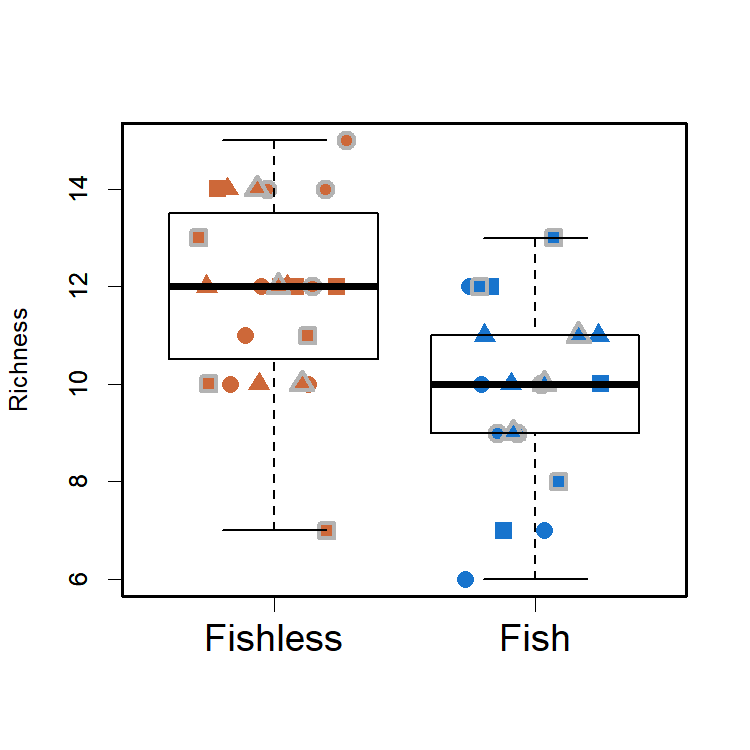
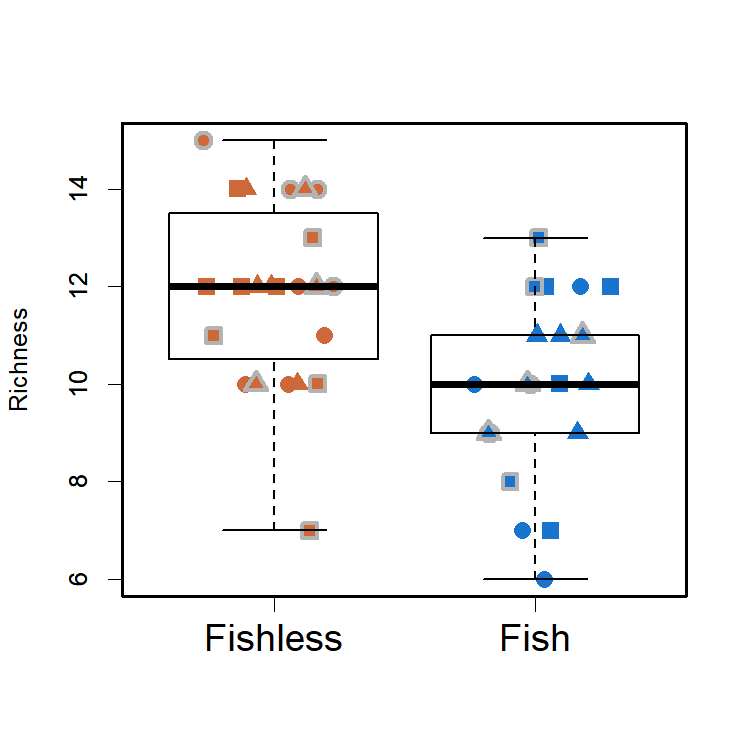
changing graph

diff --git a/Alpha Diversity Analyses/Alpha-Diversity-Analyses.md b/Alpha Diversity Analyses/Alpha-Diversity-Analyses.md
@@ -249,19 +249,15 @@ treatments in the third survey.
 Lets plot it:
 
 ``` r
-boxplot(com_SS2_SS3_predators_richness~fish_SS2_SS3*isolation_SS2_SS3*SS_SS2_SS3, outline = F, ylab = "Richness", xlab = "", lwd = 1.5, ylim = c(0,8), col = "transparent", main = "Predators", at = c(1,2,4,5,7,8,10,11,13,14,16,17), xaxt="n")
-
-All2 <- factor(All, levels = c("2 030 absent","2 030 present","2 120 absent","2 120 present","2 480 absent","2 480 present",
-                               "3 030 absent","3 030 present","3 120 absent","3 120 present","3 480 absent","3 480 present"))
-
-mylevels <- levels(All2)
-levelProportions <- summary(All2)/length(com_SS2_SS3_predators_richness)
-col <- c(rep(c("sienna3","dodgerblue3"),3), rep("grey70",6))
-bg <- c(rep(c("sienna3","dodgerblue3"),3),rep(c("sienna3","dodgerblue3"),3))
-pch <- c(15,15,16,16,17,17,22,22,21,21,24,24)
+boxplot(com_SS2_SS3_predators_richness~isolation_SS2_SS3*fish_SS2_SS3, outline = F, ylab = "Richness", xlab = "", at = c(1,2,3,5,6,7), lwd = 1.5, col = "transparent", xaxt="n", main = "Predators")
+mylevels <- levels(All)
+levelProportions <- summary(All)/length(com_SS2_SS3_predators_richness)
+col <- c(rep("sienna3",3), rep("dodgerblue3",3), rep("grey70",6))
+bg <- c(rep("sienna3",3), rep("dodgerblue3",3),rep("sienna3",3), rep("dodgerblue3",3))
+pch <- c(15,16,17,15,16,17,22,21,24,22,21,24)
 for(i in 1:length(mylevels)){
 
-  x<- c(1,2,4,5,7,8,10,11,13,14,16,17)[i]
+  x<- c(1,2,3,5,6,7,1,2,3,5,6,7)[i]
   thislevel <- mylevels[i]
   thisvalues <- com_SS2_SS3_predators_richness[All==thislevel]
 
@@ -270,14 +266,13 @@ for(i in 1:length(mylevels)){
   points(myjitter, thisvalues, pch=pch[i], col=col[i], bg = bg[i] , cex = 1.5, lwd = 3)
 
 }
-boxplot(com_SS2_SS3_predators_richness~fish_SS2_SS3*isolation_SS2_SS3*SS_SS2_SS3, add = T, outline = F,at = c(1,2,4,5,7,8,10,11,13,14,16,17), lwd = 1.5, col = "transparent", xaxt="n")
-axis(1,labels = c("Abs.","Pre.", "Abs.","Pre.","Abs.","Pre.","Abs.","Pre.", "Abs.","Pre.","Abs.","Pre."), cex.axis = 0.8, at =c(1,2,4,5,7,8,10,11,13,14,16,17))
-axis(1,labels = c("30 m","120 m", "480 m","30 m","120 m", "480 m"), cex.axis = 1, at =c(1.5,4.5,7.5,10.5,13.5,16.5), line = 1.5, tick = F )
-axis(1,labels = c("Second","Third"), cex.axis = 1.2, at =c(4.5,13.5), line = 3, tick = F )
+boxplot(com_SS2_SS3_predators_richness~isolation_SS2_SS3*fish_SS2_SS3, add = T, outline = F,at = c(1,2,3,5,6,7), lwd = 1.5, col = "transparent", xaxt="n")
+axis(1,labels = c("30 m","120 m", "480 m","30 m","120 m", "480 m"), cex.axis = 0.8, at =c(1,2,3,5,6,7))
+axis(1,labels = c("Fishless","Fish"), cex.axis = 1, at =c(2,6), line = 1.5, tick = F )
 box(lwd = 2.5)
 ```
 
-![](Alpha-Diversity-Analyses_files/figure-gfm/Plotting_rch_pr-1.png)<!-- -->
+![](Alpha-Diversity-Analyses_files/figure-gfm/Plotting_ab_pr-1.png)<!-- -->
 
 ### Only Non-Predatory Insects Community
 
